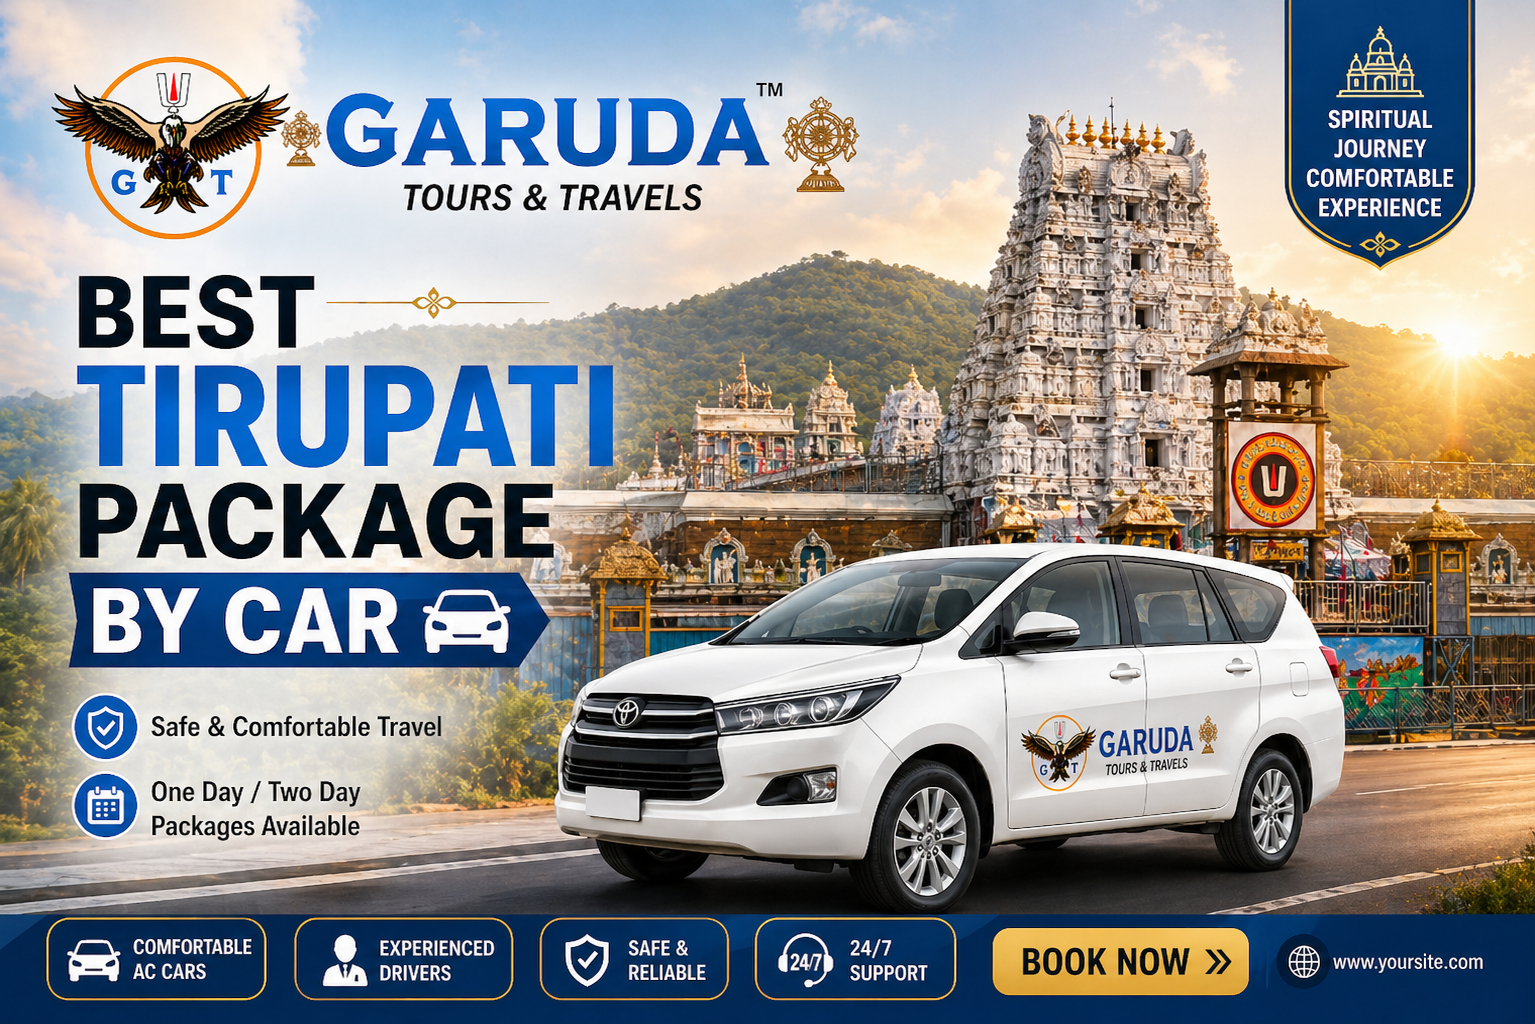
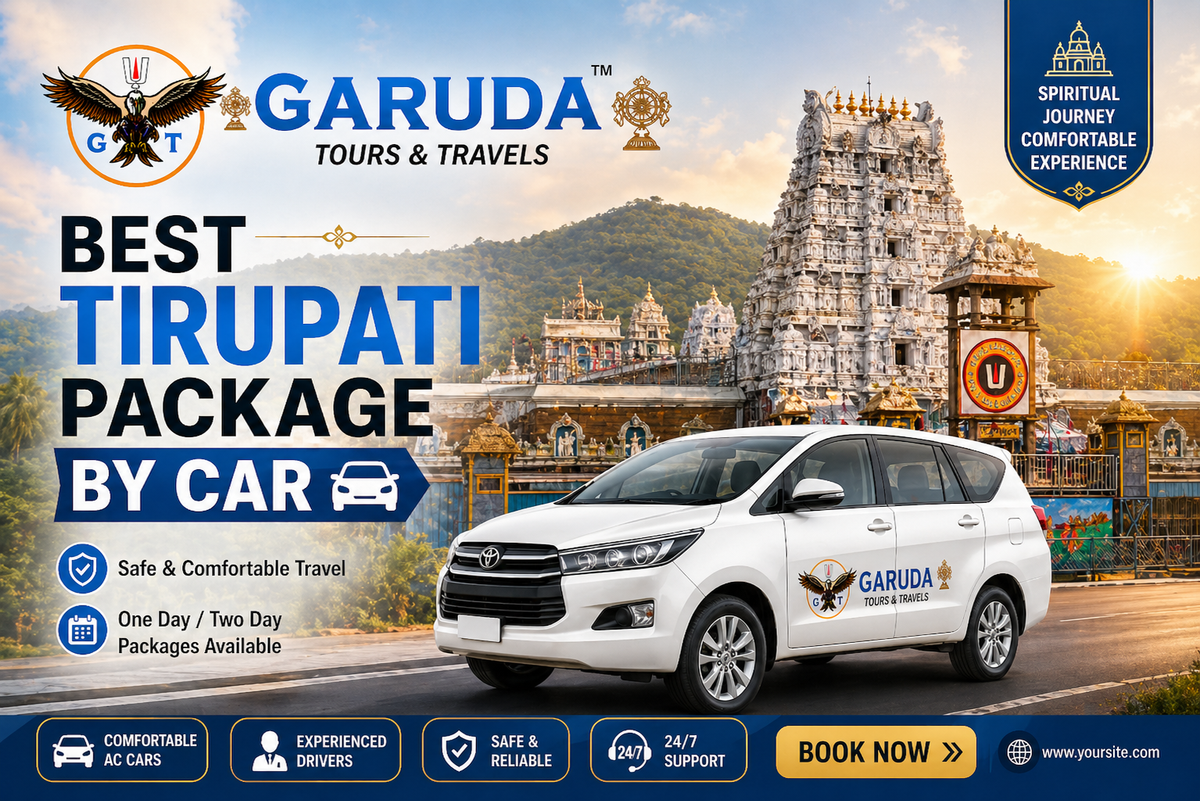
Optimize blog image to webp and enhance article schema with author and published date

diff --git a/lib/blog-data.js b/lib/blog-data.js
@@ -815,7 +815,7 @@ export const blogs = [
     "slug": "best-tirupati-package-by-car",
     "title": "Best Tirupati Package by Car",
     "excerpt": "Book the best Tirupati package by car for a smooth pilgrimage. Enjoy private travel, darshan assistance, and a comfortable journey with flexible packages.",
-    "image": "/images/blog/n1.png",
+    "image": "/images/blog/n1.webp",
     "metaTitle": "Best Tirupati Package by Car from Chennai – Same Day Darshan Tours",
     "metaDescription": "Book the best Chennai to Tirupati car package with doorstep pickup, VIP/Special entry darshan guidance, certified drivers, and clear pricing.",
     "content": "\n      <h2>Best Tirupati Package by Car from Chennai – Comfortable, Private & Divine Pilgrimage</h2>\n      <p>Embarking on a sacred pilgrimage to the Seven Hills of Tirumala is one of the most cherished spiritual journeys for devotees across South India. When traveling with family, elderly parents, or young children, navigating crowded public buses or rigid train timetables can make the journey exhausting. Choosing a dedicated Chennai to Tirupati car package ensures door-to-door convenience, personalized departure times, and a serene, well-supported travel experience.</p>\n\n      <h2>Chennai to Tirupati Car Packages – Vehicle Options & Tariff</h2>\n      <p>We provide a fleet of clean, well-maintained air-conditioned vehicles driven by courteous chauffeurs experienced on the NH716 highway and Tirumala ghat roads.</p>\n      \n      <div class=\"overflow-x-auto my-6\">\n        <table class=\"w-full text-left border-collapse border border-gray-200\">\n          <thead>\n            <tr class=\"bg-blue-50 text-blue-900 font-semibold text-sm\">\n              <th class=\"border border-gray-200 p-3\">Vehicle Model</th>\n              <th class=\"border border-gray-200 p-3\">Seating</th>\n              <th class=\"border border-gray-200 p-3\">Ideal For</th>\n              <th class=\"border border-gray-200 p-3\">Estimated Starting Fare</th>\n            </tr>\n          </thead>\n          <tbody class=\"text-sm text-gray-700\">\n            <tr class=\"border-b border-gray-100\">\n              <td class=\"border border-gray-200 p-3 font-medium\">Swift Dzire / Toyota Etios</td>\n              <td class=\"border border-gray-200 p-3\">4 Passengers</td>\n              <td class=\"border border-gray-200 p-3\">Couples & Small Families</td>\n              <td class=\"border border-gray-200 p-3 font-semibold text-blue-700\">₹5,500 – ₹6,000</td>\n            </tr>\n            <tr class=\"border-b border-gray-100 bg-gray-50/50\">\n              <td class=\"border border-gray-200 p-3 font-medium\">Maruti Ertiga / XL6</td>\n              <td class=\"border border-gray-200 p-3\">6 Passengers</td>\n              <td class=\"border border-gray-200 p-3\">Family with Children & Luggage</td>\n              <td class=\"border border-gray-200 p-3 font-semibold text-blue-700\">₹7,000 – ₹7,500</td>\n            </tr>\n            <tr class=\"border-b border-gray-100\">\n              <td class=\"border border-gray-200 p-3 font-medium\">Toyota Innova / Crysta</td>\n              <td class=\"border border-gray-200 p-3\">7 Passengers</td>\n              <td class=\"border border-gray-200 p-3\">Senior Citizens & Premium Comfort</td>\n              <td class=\"border border-gray-200 p-3 font-semibold text-blue-700\">₹8,500 – ₹9,500</td>\n            </tr>\n            <tr class=\"bg-gray-50/50\">\n              <td class=\"border border-gray-200 p-3 font-medium\">Tempo Traveller</td>\n              <td class=\"border border-gray-200 p-3\">12–14 Passengers</td>\n              <td class=\"border border-gray-200 p-3\">Joint Families & Devotee Groups</td>\n              <td class=\"border border-gray-200 p-3 font-semibold text-blue-700\">₹13,500 – ₹15,500</td>\n            </tr>\n          </tbody>\n        </table>\n      </div>\n\n      <h2>Sample Same-Day Pilgrimage Itinerary</h2>\n      <ul class=\"list-disc pl-5 space-y-2 my-4\">\n        <li><strong>04:30 AM:</strong> Doorstep pickup from your home or hotel in Chennai.</li>\n        <li><strong>08:30 AM:</strong> Arrival in Tirupati foothills; authentic South Indian breakfast stop.</li>\n        <li><strong>09:30 AM:</strong> Drive up the scenic Tirumala Ghat road (Alipiri checkpost clearance).</li>\n        <li><strong>10:30 AM – 02:00 PM:</strong> Special entry darshan of Lord Venkateswara & laddu prasadam collection.</li>\n        <li><strong>02:30 PM:</strong> Return to Tirupati downhill; vegetarian lunch break.</li>\n        <li><strong>04:00 PM:</strong> Blessings at Sri Padmavathi Ammavari Temple, Tiruchanur.</li>\n        <li><strong>05:30 PM:</strong> Relaxing drive back towards Chennai, reaching home safely by 09:30 PM.</li>\n      </ul>\n\n      <h2>Why Families and Devotees Prefer Garuda Tours</h2>\n      <p>From prompt on-time pickups in Anna Nagar, T. Nagar, Tambaram, or Velachery to dedicated assistance with TTD darshan token entry, our professional team ensures complete safety, transparency, and devotional reverence throughout your journey.</p>\n\n      <h2>Frequently Asked Questions</h2>\n      <div class=\"space-y-4 my-6\">\n        <div class=\"p-4 bg-gray-50 rounded-lg border border-gray-200\">\n          <h3 class=\"font-bold text-gray-900 mb-1\">What is the recommended departure time from Chennai for a same-day Tirupati tour?</h3>\n          <p class=\"text-sm text-gray-700\">Early morning between 4:30 AM and 5:00 AM is optimal. This allows you to avoid city toll delays, reach Tirupati foothill by 8:30 AM for breakfast, and proceed smoothly up the ghat road to Tirumala on time.</p>\n        </div>\n        <div class=\"p-4 bg-gray-50 rounded-lg border border-gray-200\">\n          <h3 class=\"font-bold text-gray-900 mb-1\">What dress code is mandatory for Lord Venkateswara darshan at Tirumala?</h3>\n          <p class=\"text-sm text-gray-700\">Men must wear a traditional Dhoti with shirt or Kurta Pajama. Women must wear a Saree, Half-Saree, or Churidar with Dupatta. Western clothes such as jeans, shorts, and t-shirts are strictly prohibited by TTD.</p>\n        </div>\n        <div class=\"p-4 bg-gray-50 rounded-lg border border-gray-200\">\n          <h3 class=\"font-bold text-gray-900 mb-1\">Are highway tolls, Andhra interstate permits, and hill parking included in the package?</h3>\n          <p class=\"text-sm text-gray-700\">Yes, our all-inclusive private car packages cover fuel, professional driver allowance, Tamil Nadu & Andhra interstate permit taxes, and toll gate charges upfront without hidden surcharges.</p>\n        </div>\n        <div class=\"p-4 bg-gray-50 rounded-lg border border-gray-200\">\n          <h3 class=\"font-bold text-gray-900 mb-1\">Can we visit Tiruchanur Goddess Padmavathi Temple on our return to Chennai?</h3>\n          <p class=\"text-sm text-gray-700\">Yes! Customary pilgrimage tradition recommends seeking the blessings of Goddess Padmavathi at Tiruchanur after Tirumala Balaji darshan. Our drivers allocate convenient time for this stop.</p>\n        </div>\n      </div>\n    ",

diff --git a/app/blog/[slug]/page.jsx b/app/blog/[slug]/page.jsx
@@ -60,13 +60,34 @@ export default async function BlogDetailPage({ params }) {
         ],
     }
 
+    const fullImageUrl = post.image
+        ? (post.image.startsWith('http') ? post.image : `https://www.garudatoursandtravels.com${post.image}`)
+        : undefined
+
+    let publishedDate = new Date().toISOString()
+    try {
+        if (post.date) {
+            const parsed = new Date(post.date)
+            if (!isNaN(parsed.getTime())) {
+                publishedDate = parsed.toISOString()
+            }
+        }
+    } catch (e) {}
+
     const articleSchema = {
         "@context": "https://schema.org",
         "@type": "BlogPosting",
         "headline": post.title,
         "description": post.metaDescription || post.excerpt,
-        "image": post.image ? [post.image] : undefined,
+        "image": fullImageUrl ? [fullImageUrl] : undefined,
         "url": `https://www.garudatoursandtravels.com/blog/${slug}`,
+        "datePublished": publishedDate,
+        "dateModified": new Date().toISOString(),
+        "author": {
+            "@type": "Organization",
+            "name": "Garuda Tours & Travels",
+            "url": "https://www.garudatoursandtravels.com",
+        },
         "publisher": {
             "@type": "Organization",
             "name": "Garuda Tours & Travels",
